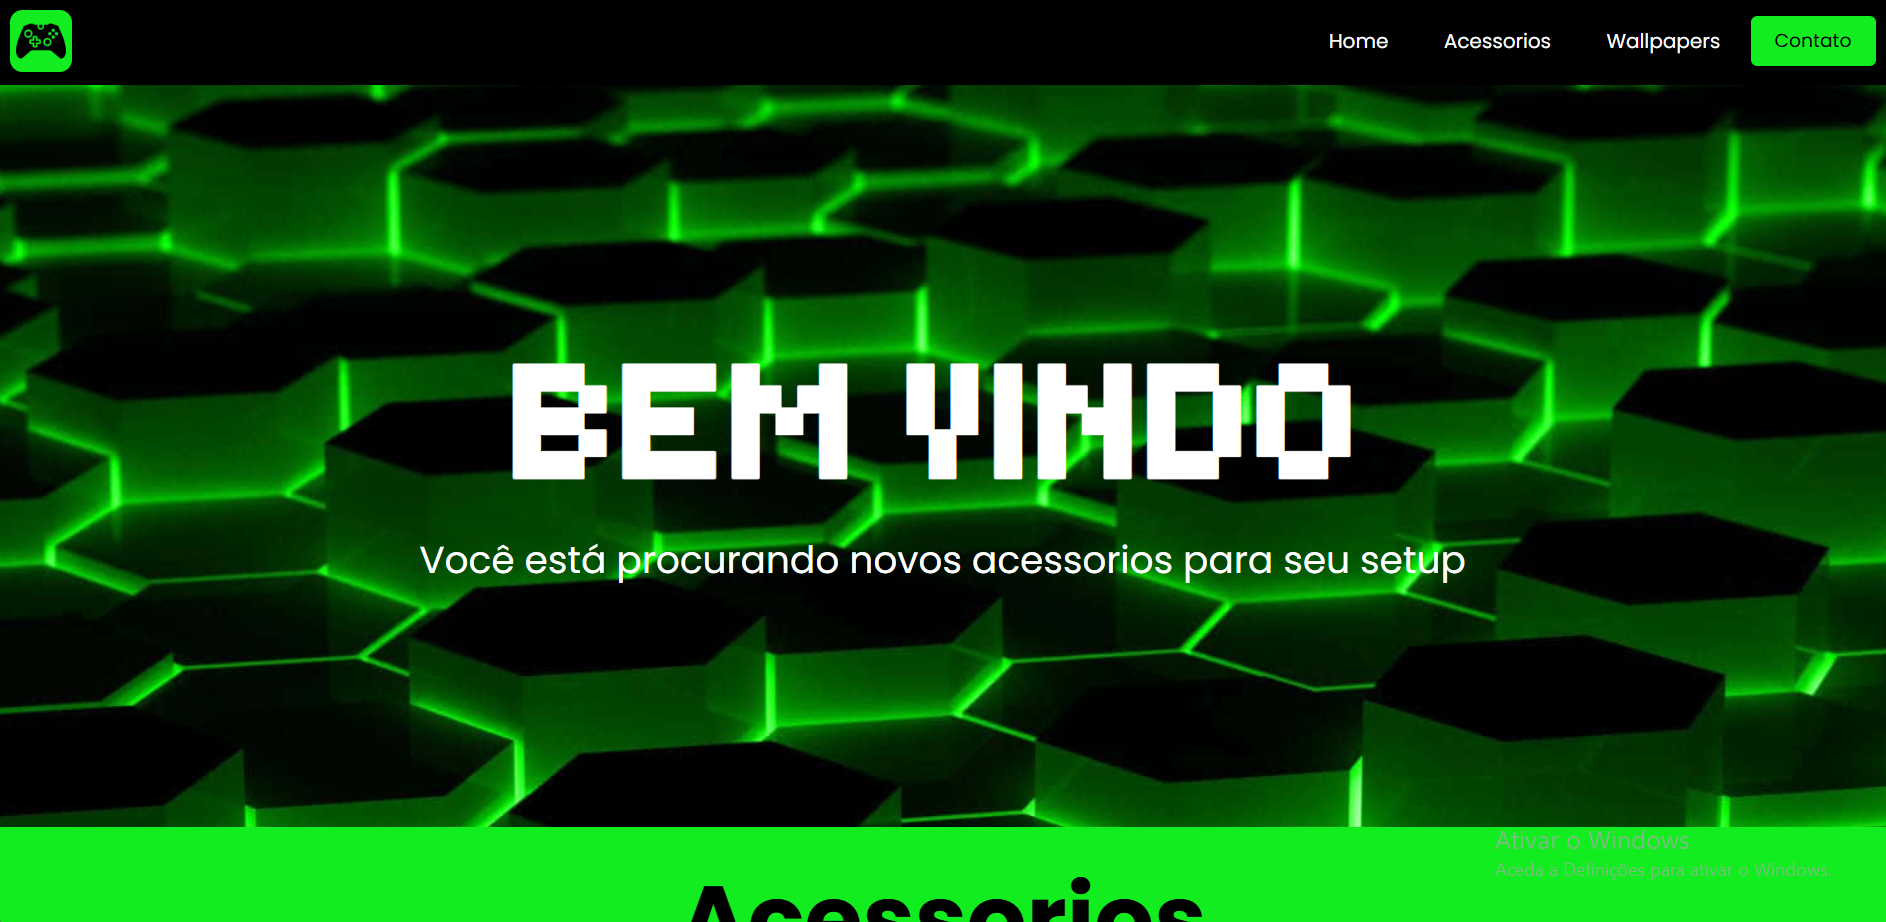
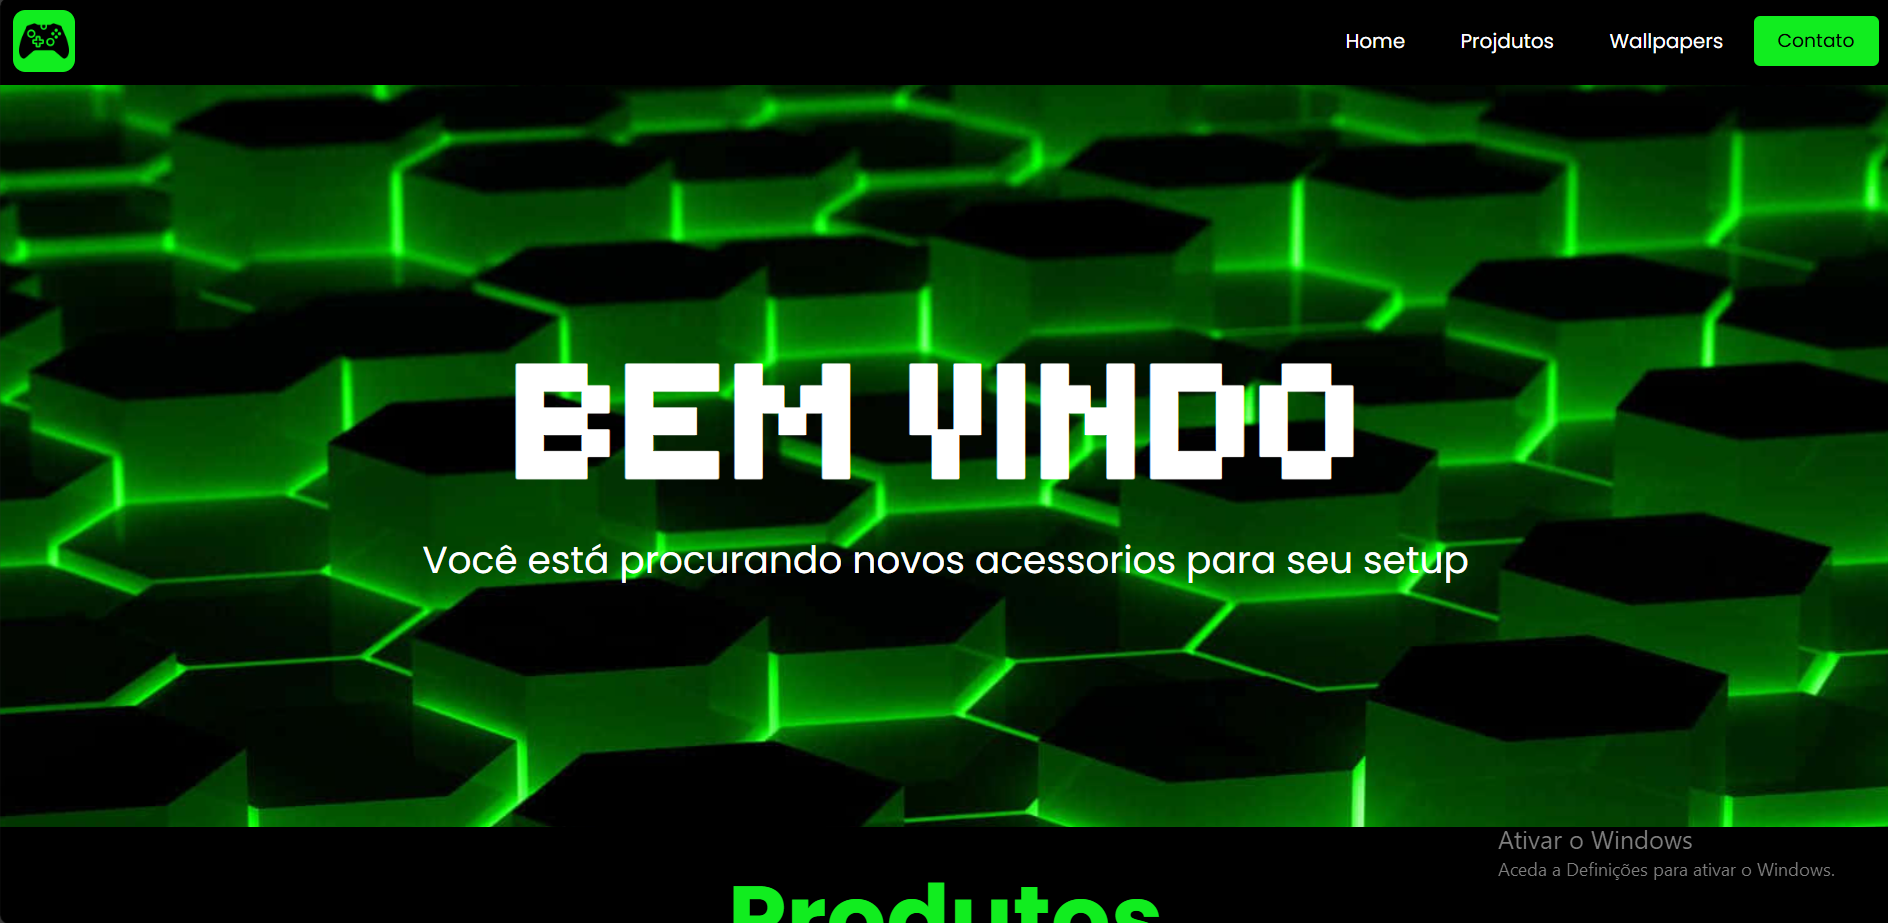
projeto_05

diff --git a/Site_de_jogos/index.html b/Site_de_jogos/index.html
@@ -14,7 +14,7 @@
         </div>
         <ul>
             <li><a href="#">Home</a></li>
-            <li><a href="#">Acessorios</a></li>
+            <li><a href="#">Projdutos</a></li>
             <li><a href="#">Wallpapers</a></li>
             <button>Contato</button>
         </ul>
@@ -24,7 +24,7 @@
         <p>Você está procurando novos acessorios para seu setup</p>
     </div>
     <div class="segundo_titulo">
-        <h2>Acessorios</h2>
+        <h2>Produtos</h2>
     </div>
     <div class="produtos">
         <div class="produto">

diff --git a/Site_de_jogos/style.css b/Site_de_jogos/style.css
@@ -110,8 +110,7 @@ body{
     align-items: center;
     justify-content: center;
     font-size: 50px;
-    color: var(--black);
-    background-color: var(--green);
+    color: var(--green);
 }
 
 /*-------Produtos-------*/
